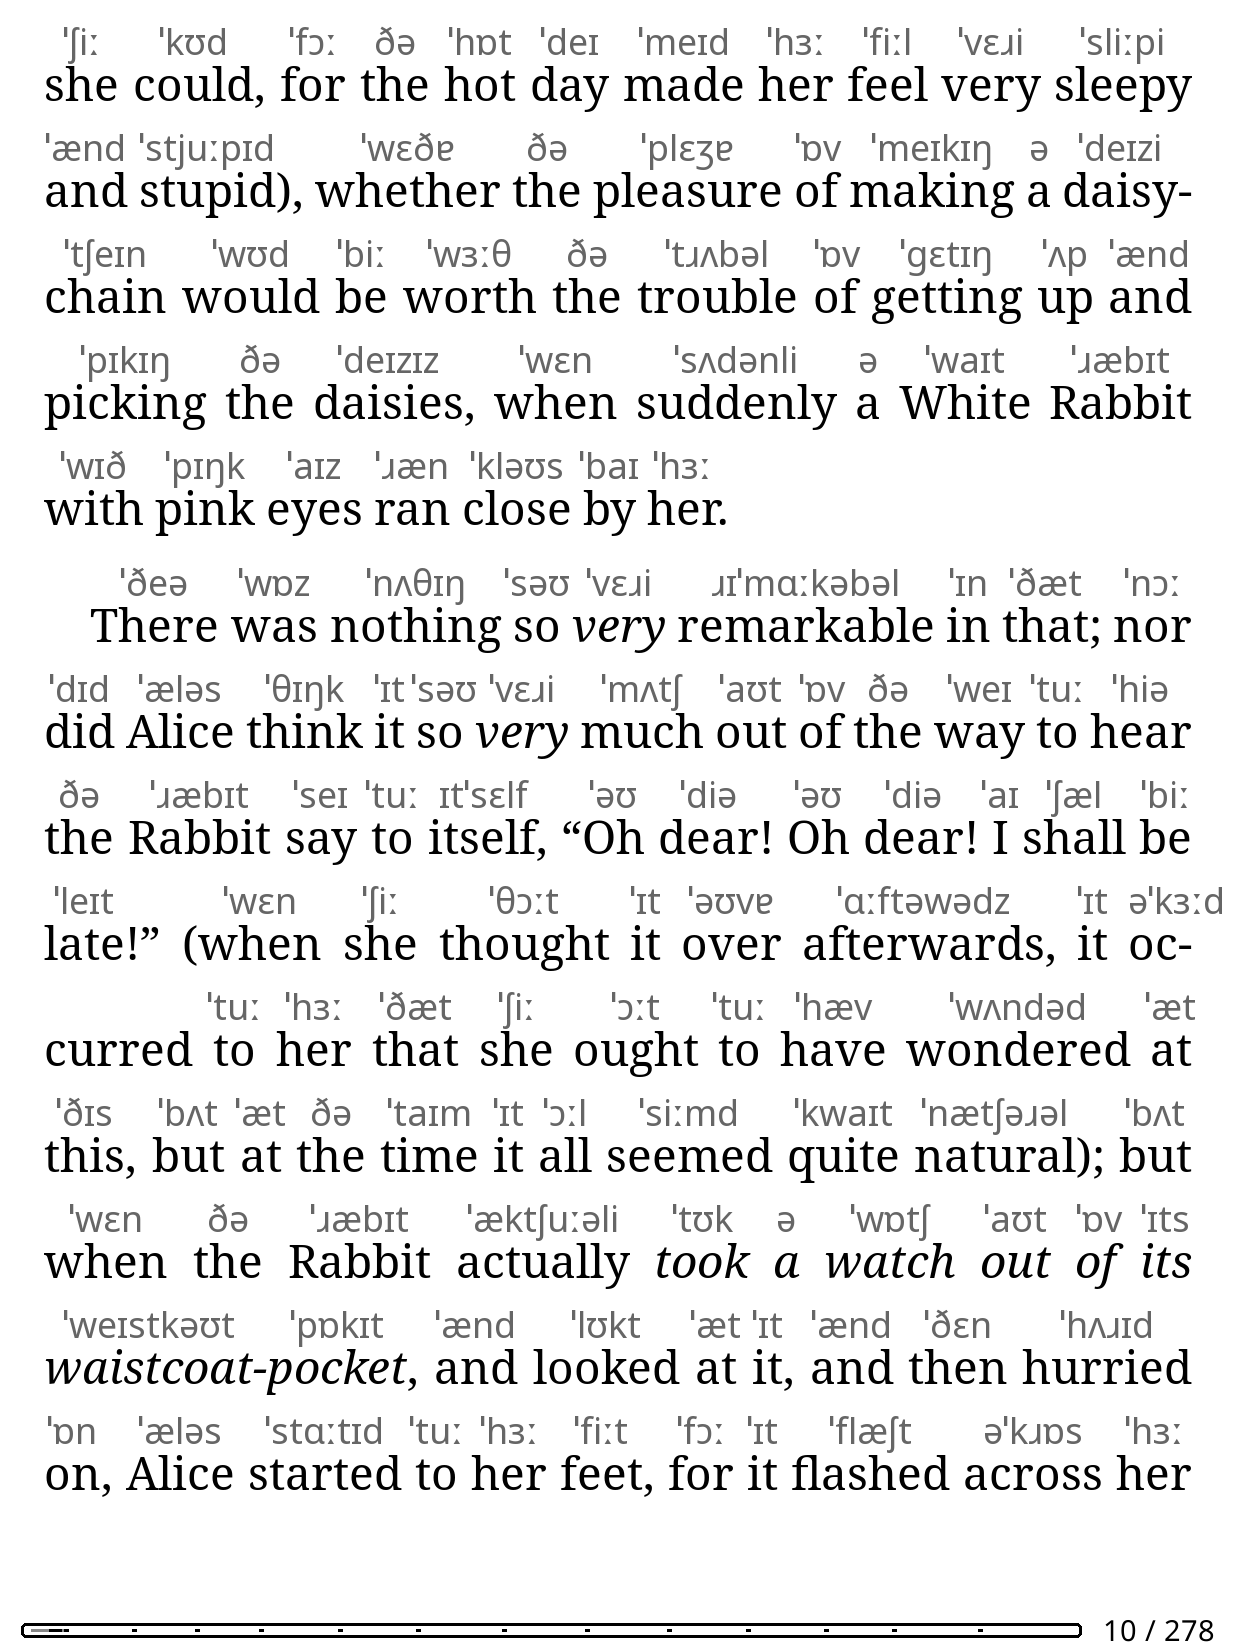
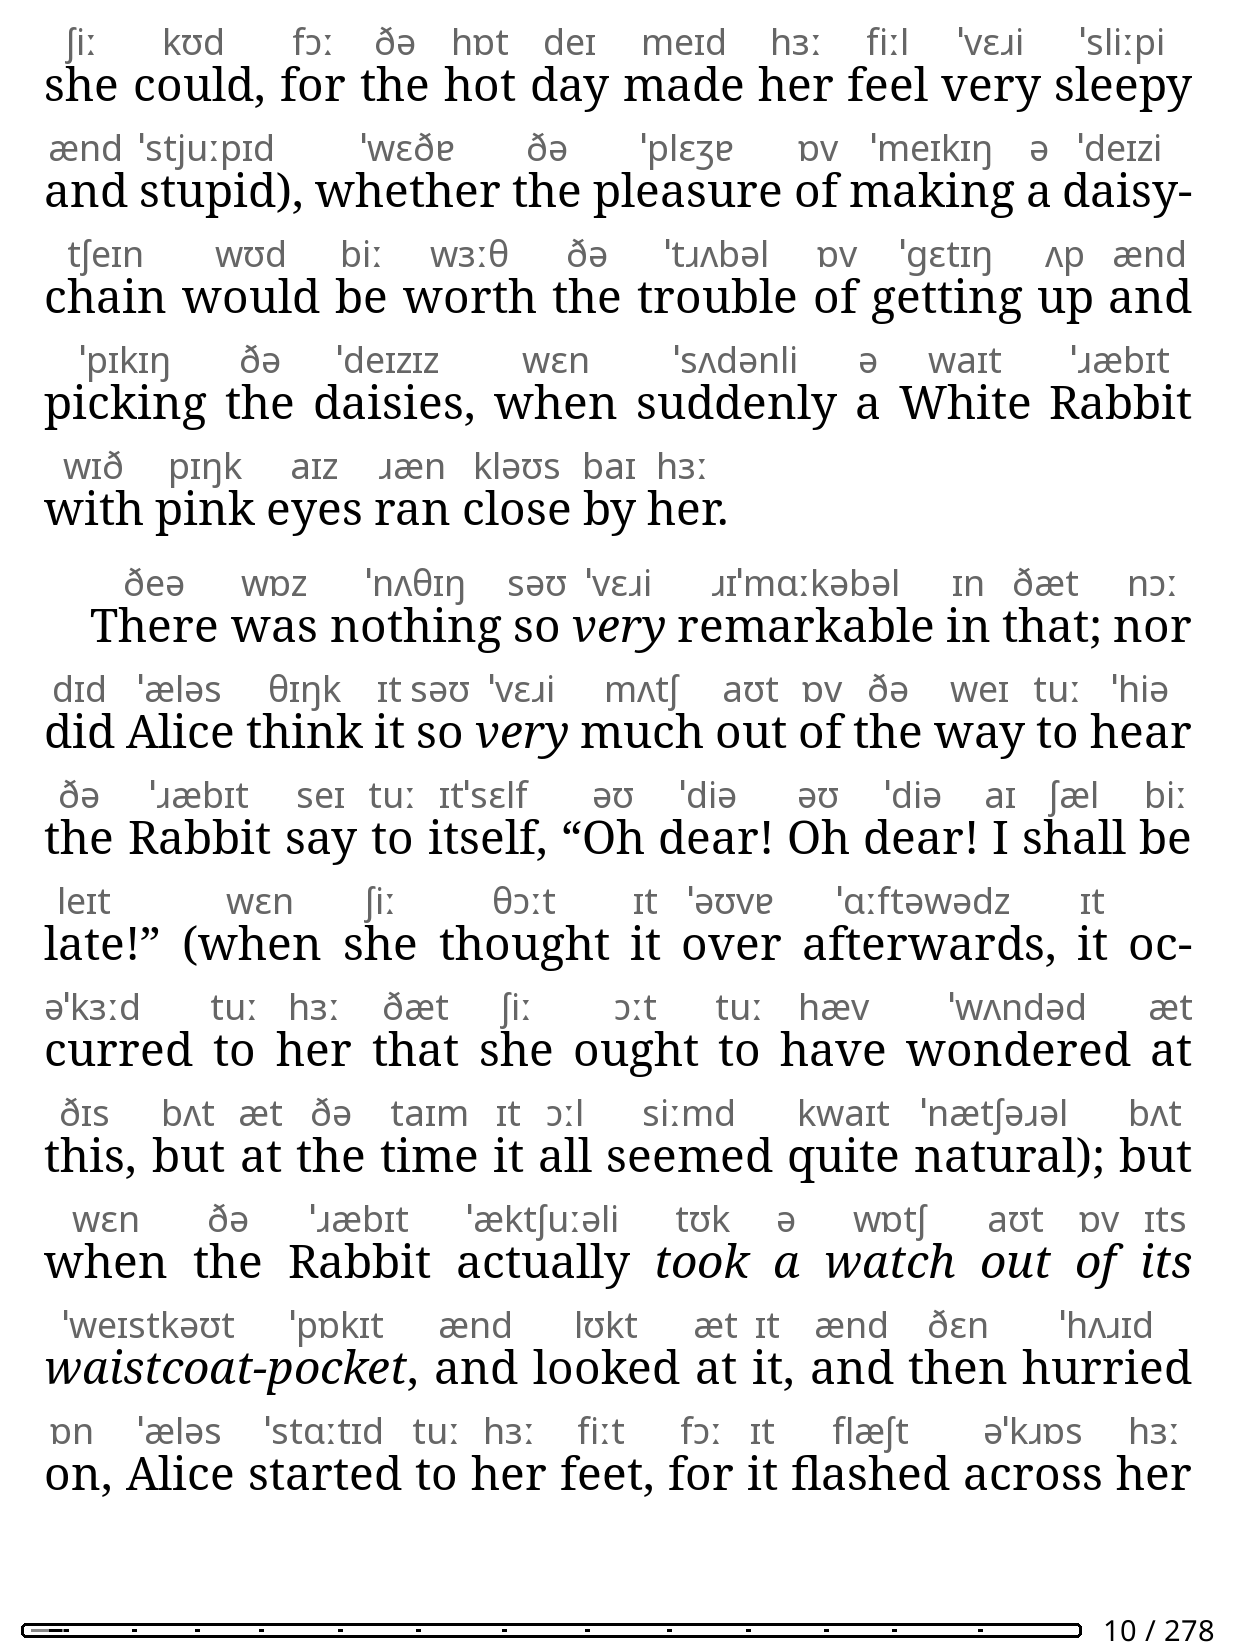
feat: contractions, Italian elision, checksums, README
No stress mark on single-vowel words, fix UK length mark bug
Join apostrophe fragments (didn't, l'aquila), Italian stress list
SHA256 check on dictionary download, loading and progress messages
Empty page cache fix, README with screenshots, CHANGELOG

diff --git a/README.md b/README.md
@@ -1,47 +1,73 @@
 # IPA pronunciation for KOReader
 
-Shows the IPA pronunciation above every word of an English or Italian EPUB, with a per-book toggle.
+Shows the IPA pronunciation above every word of an English or Italian EPUB, with a per-book toggle. The book file is never modified.
 
-## How it works
+![English US](docs/screenshots/en_us.png)
 
-An overlay draws the IPA above each word of the current page when the page is painted. The book is never modified,
-so selection, highlights, dictionary and translation keep working on the original text.
+| English UK | Italian (experimental) |
+|---|---|
+| ![English UK](docs/screenshots/en_uk.png) | ![Italian](docs/screenshots/it.png) |
 
-- crengine returns one box per line for a text range, so the plugin queries every word on its own and caches the result per page.
-- Line spacing is computed from the IPA size when the overlay is turned on, and reset to 100% when it is turned off.
-- English US: CMUdict (ARPAbet converted to IPA on the device).
-- English UK: ipa-dict `en_UK` (GPL-3.0 data derived from ipacards, see NOTICE; stress mark moved to the syllable start on the device), words missing there use CMUdict with UK vowels and r-dropping.
-- Italian: rule based. Stress comes from the written accent, otherwise penultimate syllable. Open and closed e/o are not marked. `z` is `ts`, long between vowels before i + vowel and in `zz`, never `dz`. Words not stressed on the penultimate syllable and written without an accent (tavolo, aquila) get the wrong stress.
-- Languages are entries of `engines.lua`: id, label, ISO codes for auto detection, needed files, `create`.
-- Select a word and tap "Pronunciation" in the popup to see its IPA, also when the overlay is off.
+Screenshots come from Alice in Wonderland (public domain) and a short generated Italian test text, in the KOReader Linux emulator at the Kindle Paperwhite 11th gen resolution.
+
+## Status and limits
+
+- English US and UK are dictionary based and reliable for common words. Words missing from the dictionary show nothing.
+- **Italian is experimental.** Pronunciation comes from rules: stress on the penultimate syllable unless the word is accented or in a small list of common words stressed on the third to last syllable (tavolo, aquila, subito). Every other such word gets the wrong stress. Open and closed e/o are not marked, `z` is never `dz`.
+- Works only in page view mode and only on EPUB and other reflowable documents. PDF and scroll mode show nothing.
+- Line spacing grows to make room for the IPA row, so a page holds fewer lines (see below). It goes back to 100% when you turn the overlay off.
+- Words with a single vowel get no stress mark.
+- No audio.
+- Tested on a Kindle Paperwhite 11th gen and the KOReader Linux build, both v2026.07.1. Older versions are untested.
+
+Line spacing, overlay off and on:
+
+| Off | On |
+|---|---|
+| ![Off](docs/screenshots/overlay_off.png) | ![On](docs/screenshots/en_us.png) |
 
 ## Install
 
-Copy the `ipaoverlay.koplugin` folder to the `koreader/plugins/` folder of the device (Kindle, Kobo, ...), for example by USB, then restart KOReader.
-On macOS skip the `._*` files: `rsync -rt --delete --exclude '._*' ipaoverlay.koplugin/ <device>/koreader/plugins/ipaoverlay.koplugin/`
+Download `ipaoverlay.koplugin.zip` from the releases page, unzip it and copy the `ipaoverlay.koplugin` folder to `koreader/plugins/` on the device (Kindle, Kobo, ...), then restart KOReader.
 
-Dictionaries are not part of the plugin. The first time an English engine is needed the plugin asks to download them (about 5 MB, WiFi)
-from the pinned upstream repositories into the `ipaoverlay/` folder of the KOReader data directory (`koreader/ipaoverlay/` on Kindle). Italian needs no download.
-Measured on x86: loading both English dictionaries takes 0.17 s and about 25 MB of Lua memory, expect slower on e-readers.
+From a checkout on macOS: `rsync -rt --delete --exclude '._*' ipaoverlay.koplugin/ <device>/koreader/plugins/ipaoverlay.koplugin/`.
 
-Menu: Tools tab, "IPA pronunciation". Options: size, color, language (Automatic, English US, English UK, Italian).
-It can also be bound to a gesture (action "Toggle IPA pronunciation").
+Menu: Tools tab, "IPA pronunciation". Options: size, color, language (Automatic, English US, English UK, Italian). It can also be bound to a gesture (action "Toggle IPA pronunciation").
+
+Select a word and tap "Pronunciation" in the popup to see its IPA, also when the overlay is off.
+
+![Popup](docs/screenshots/popup.png)
+
+## Dictionaries
+
+No dictionary is bundled. The first time an English engine is needed the plugin asks to download it (about 5 MB, needs WiFi) into the `ipaoverlay/` folder of the KOReader data directory (`koreader/ipaoverlay/` on Kindle). Files come from pinned commits of the upstream repositories and are verified with SHA256. Italian needs no download.
+
+See NOTICE for sources and licenses. The UK data is GPL-3.0.
+
+## Performance
+
+On the Paperwhite 11th gen a page scan takes about 0.1 s for 100 words (from the KOReader log, every page is cached). From opening a book to the first IPA took about 9 s, which includes book layout and loading the dictionary into memory (about 25 MB of Lua memory measured on x86).
+
+## How it works
+
+An overlay draws the IPA above each word of the current page when the page is painted. Selection, highlights, dictionary and translation keep working on the original text.
+
+- crengine returns one box per line for a text range, so every word is queried on its own and the result is cached per page.
+- Line spacing is computed from the IPA size when the overlay is turned on.
+- English US: CMUdict, ARPAbet converted to IPA on the device.
+- English UK: ipa-dict `en_UK` with the stress mark moved to the syllable start, words missing there use CMUdict with UK vowels and r-dropping.
+- The IPA is drawn with KOReader's bundled Noto Sans, no font is shipped.
+- If painting fails the overlay turns itself off for that book and shows a notice.
+- Languages are entries of `engines.lua`: id, label, ISO codes for auto detection, needed files, `create`.
 
 ## Development
 
-    make test    # luajit tests in Docker
-    make lint    # luacheck and ruff in Docker
+    make test       # luajit tests in Docker
+    make lint       # luacheck and ruff in Docker
+    make emulator   # smoke test in the KOReader Linux build, screenshots go to OUT_DIR
+    make zip        # release zip
 
 `tools/build_ipadict_uk.py` is the reference for `uk_stress.lua`. `tests/uk_stress_fixtures.lua` holds its outputs, regenerate them if the rule changes.
-
-## Known limits
-
-No audio. Italian open and closed e/o are not marked, `z` is `ts`, long between vowels before i + vowel and in `zz`, never `dz`. Words not stressed on the penultimate syllable and written without an accent (tavolo, aquila) get the wrong stress. UK fallback for words missing in ipa-dict is approximate.
-Tested only on a Kindle Paperwhite 11th gen (minimum KOReader version not checked yet).
-
-## Fonts
-
-No font is shipped. The IPA is drawn with KOReader's bundled Noto Sans, with KOReader's own fallback fonts for missing glyphs.
 
 ## License
 

diff --git a/CHANGELOG.md b/CHANGELOG.md
@@ -1,0 +1,9 @@
+# Changelog
+
+## 0.1.0
+
+- IPA overlay above every word, per book toggle, size, color and language options.
+- English US (CMUdict), English UK (ipa-dict en_UK, GPL-3.0 data) and rule based Italian.
+- Dictionaries are downloaded on first use, SHA256 verified, nothing is bundled.
+- No stress mark on words with a single vowel.
+- Overlay turns itself off if painting fails.
